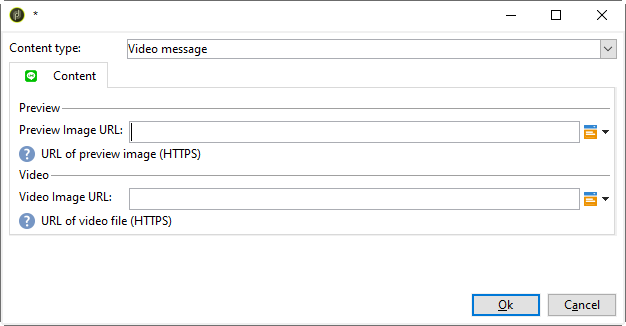
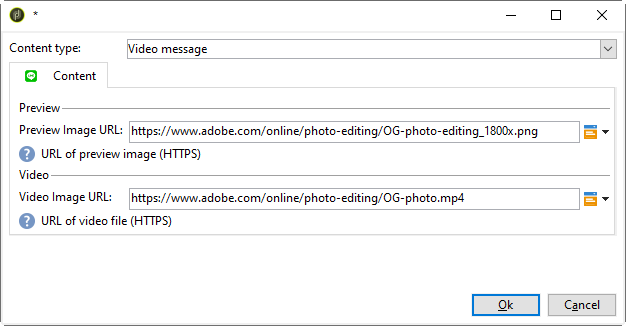
LINE wip

Changed region(s): [[0.2125, 0.3681, 0.8802, 0.4294], [0.2125, 0.5828, 0.7588, 0.6442]]

diff --git a/help/delivery/using/line-channel.md b/help/delivery/using/line-channel.md
@@ -42,14 +42,12 @@ To create and configure a [!DNL LINE] service, see [Managing subscriptions](../.
 Finally, to create an external account on Adobe Campaign:
 
 1. In the **[!UICONTROL Administration]** > **[!UICONTROL Platform]** tree structure, click the **[!UICONTROL External Accounts]** tab.
-1. Then click the **[!UICONTROL New]** icon.
+
+1. Select the built-in **[!UICONTROL LINE V2 routing]** external account.
 
    ![](assets/line_config.png)
 
-1. Complete the **[!UICONTROL Label]** and **[!UICONTROL Internal name]** fields.
-1. In the **[!UICONTROL Type]** field, select Routing and in the **[!UICONTROL Channel]** field, select LINE.
-1. Click **[!UICONTROL Save]** to create your [!DNL LINE] external account.
-1. A **[!UICONTROL LINE]** personalization field then appears under the **[!UICONTROL General]** icon, fill the following fields:
+1. Click the **[!UICONTROL LINE]** tab from your external account to start configuring your external account. Fill the following fields:
 
    ![](assets/line_config_2.png)
 
@@ -60,9 +58,11 @@ Finally, to create an external account on Adobe Campaign:
     * **[!UICONTROL Access token expiration date]**: allows you to specify the expiration date of the Access token.
     * **[!UICONTROL LINE subscription service]**: allows you to specify the services to which the users will be subscribed.
 
->[!NOTE]
->
->You must verify that the **[!UICONTROL LINE access token update (updateLineAccessToken)]** and **[!UICONTROL Delete blocked LINE users (deleteBlockedLineUsers)]** workflows have started. From the explorer, click **[!UICONTROL Administration]** > **[!UICONTROL Production]** > **[!UICONTROL Technical workflows]** > **[!UICONTROL LINE workflows]** to check the status of the workflows.
+1. Once your configuration is done, click **[!UICONTROL Save]**.
+
+1. From the **[!UICONTROL Explorer]**, select **[!UICONTROL Administration]** > **[!UICONTROL Production]** > **[!UICONTROL Technical workflows]** > **[!UICONTROL LINE workflows]** to check if the **[!UICONTROL LINE V2 access token update (updateLineAccessToken)]** and **[!UICONTROL Delete blocked LINE users (deleteBlockedLineUsers)]** workflows have started.
+
+The [!DNL LINE] is now configured in Adobe Campaign, you can start creating and sending LINE deliveries to subscribers.
 
 ## Create LINE delivery {#creating-the-delivery}
 
@@ -110,7 +110,7 @@ A **[!UICONTROL Text message]** [!DNL LINE] delivery is a message sent to recipi
 
 ![](assets/line_message_02.png)
 
-The configuration for this type of message is similar to the configuration of the **text** in an email. For more information, refer to this [page](../../delivery/using/defining-the-email-content.md#message-content).
+The configuration for this type of message is similar to the configuration of the **[!UICONTROL Text]** in an email. For more information, refer to this [page](../../delivery/using/defining-the-email-content.md#message-content).
 
 ### Configuring an Image and link delivery {#configuring-an-image-and-link-delivery}
 
@@ -156,20 +156,13 @@ You can use:
 
 A **[!UICONTROL Video message]** [!DNL LINE] delivery is a message sent to recipients in the form of a video that can contain an URL.
 
+The **[!UICONTROL Preview Image URL]** field allows you to add the URL of a preview image with a character limit of 1000. JPEG and PNG are supported with a file size limit of 1 MB.
+
+The **[!UICONTROL Video Image URL]** field to add the URL of your video file with a character limit of 1000. Only mp4 format is supported with a file size limit of 200 MB.
+
+Note that wide or tall videos may be cropped when played on some devices.
+
   ![](assets/line_message_06.png)
-
-**[!UICONTROL Preview Image URL]**
-URL of preview image (Max character limit: 1000)
-HTTPS over TLS 1.2 or later
-JPEG or PNG
-Max file size: 1 MB
-
-**[!UICONTROL Video Image URL]**
-URL of video file (Max character limit: 1000)
-HTTPS over TLS 1.2 or later
-mp4 format
-Max file size: 200 MB
-A very wide or tall video may be cropped when played in some environments.
 
 ## Accessing reports {#accessing-reports}
 
@@ -181,7 +174,7 @@ After sending your delivery, you can view your [!DNL LINE] reports via the menu 
 
    ![](assets/line_reports_01.png)
  
-For LINE service reports, access the menu **[!UICONTROL Profiles and Targets > Services and Subscriptions > LINE]** from the **[!UICONTROL Explorer]** tab. Then click the **[!UICONTROL Reports]** icon in the [!DNL LINE] service.
+For LINE service reports, access the menu **[!UICONTROL Profiles and Targets]** > **[!UICONTROL Services and Subscriptions]** > **[!UICONTROL LINE-V2]** from the **[!UICONTROL Explorer]** tab. Then click the **[!UICONTROL Reports]** icon in the [!DNL LINE] service.
 
    ![](assets/line_reports.png)
 
